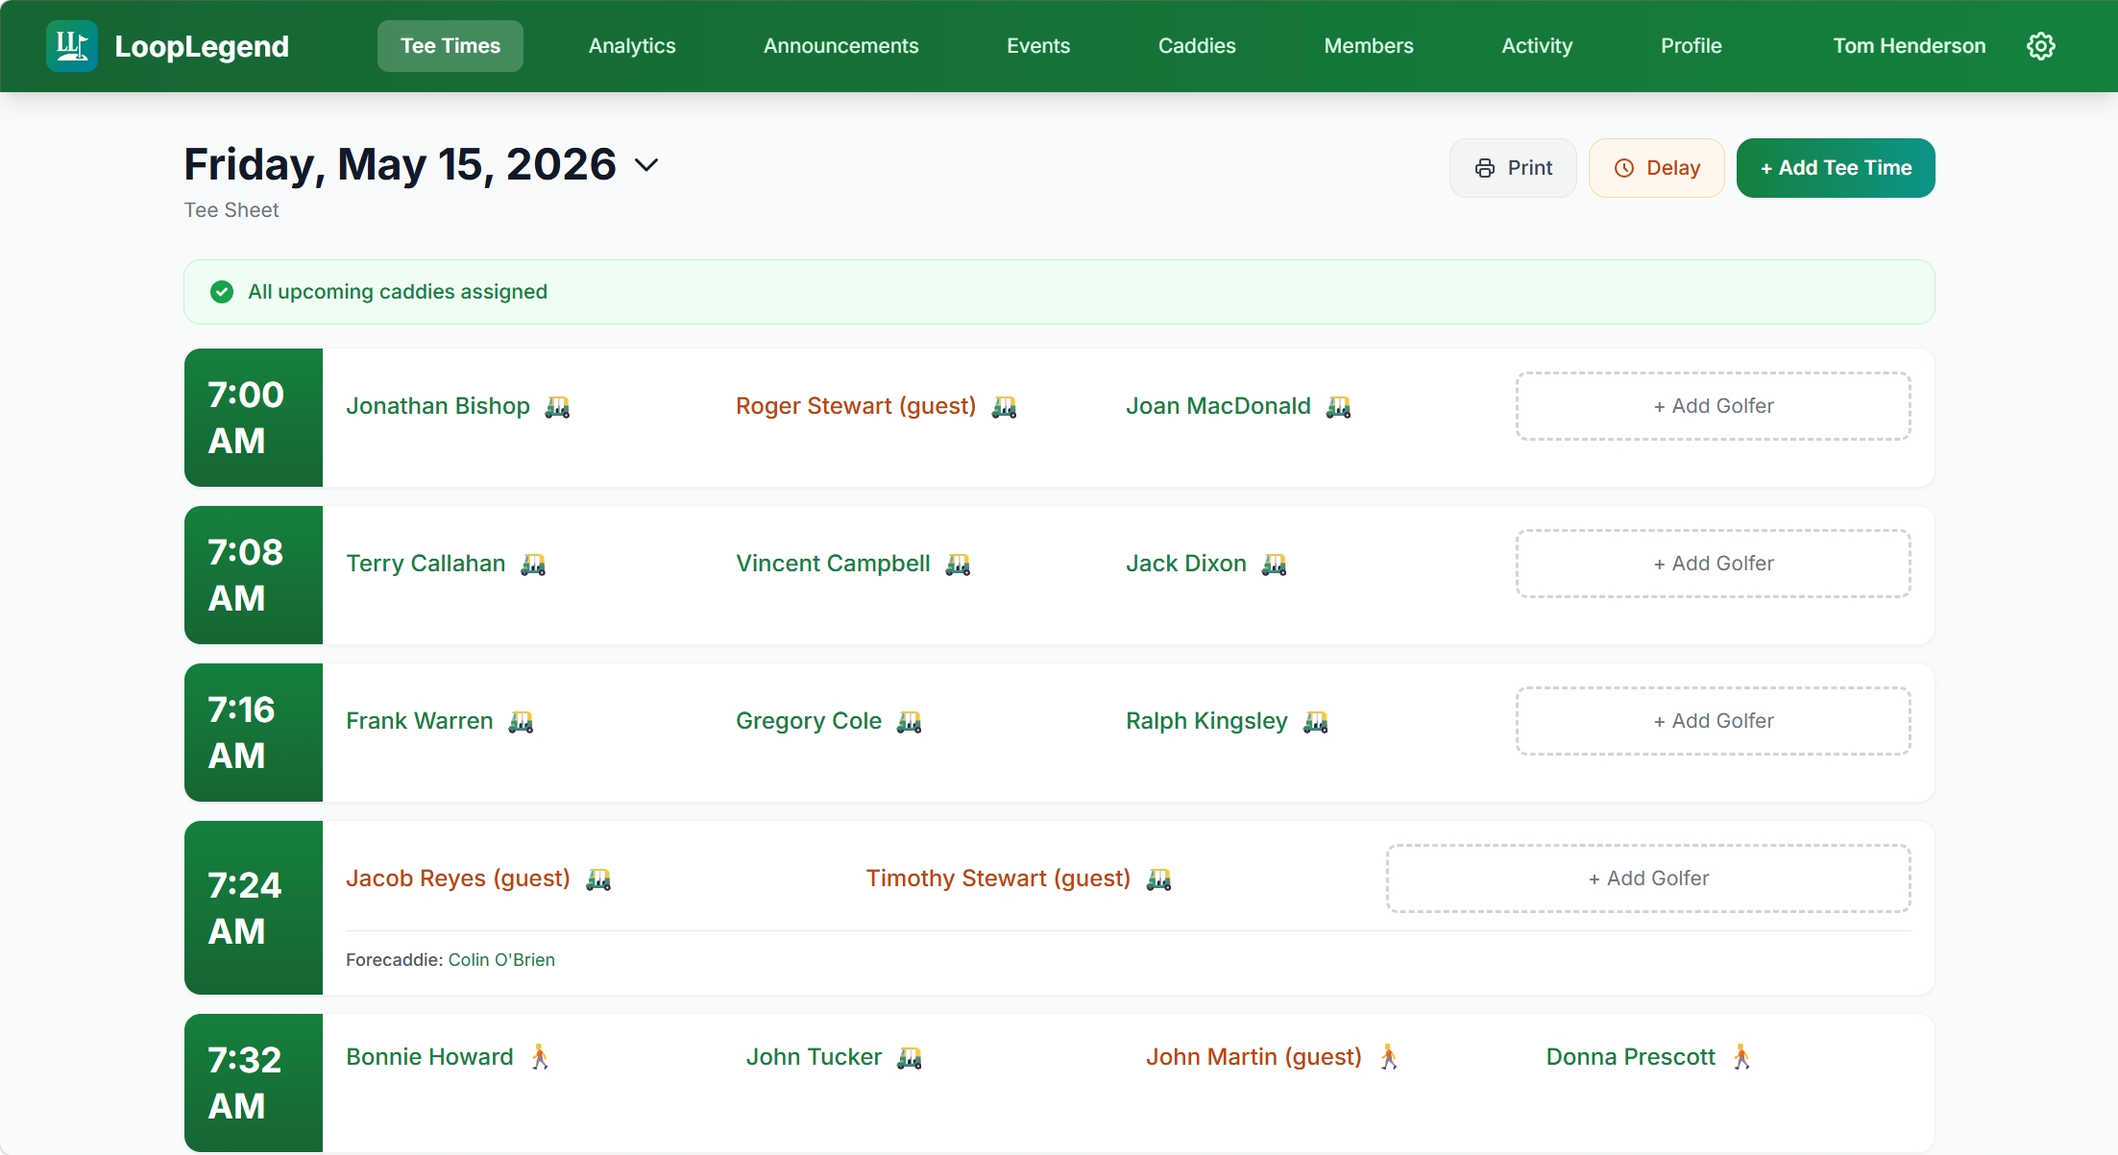
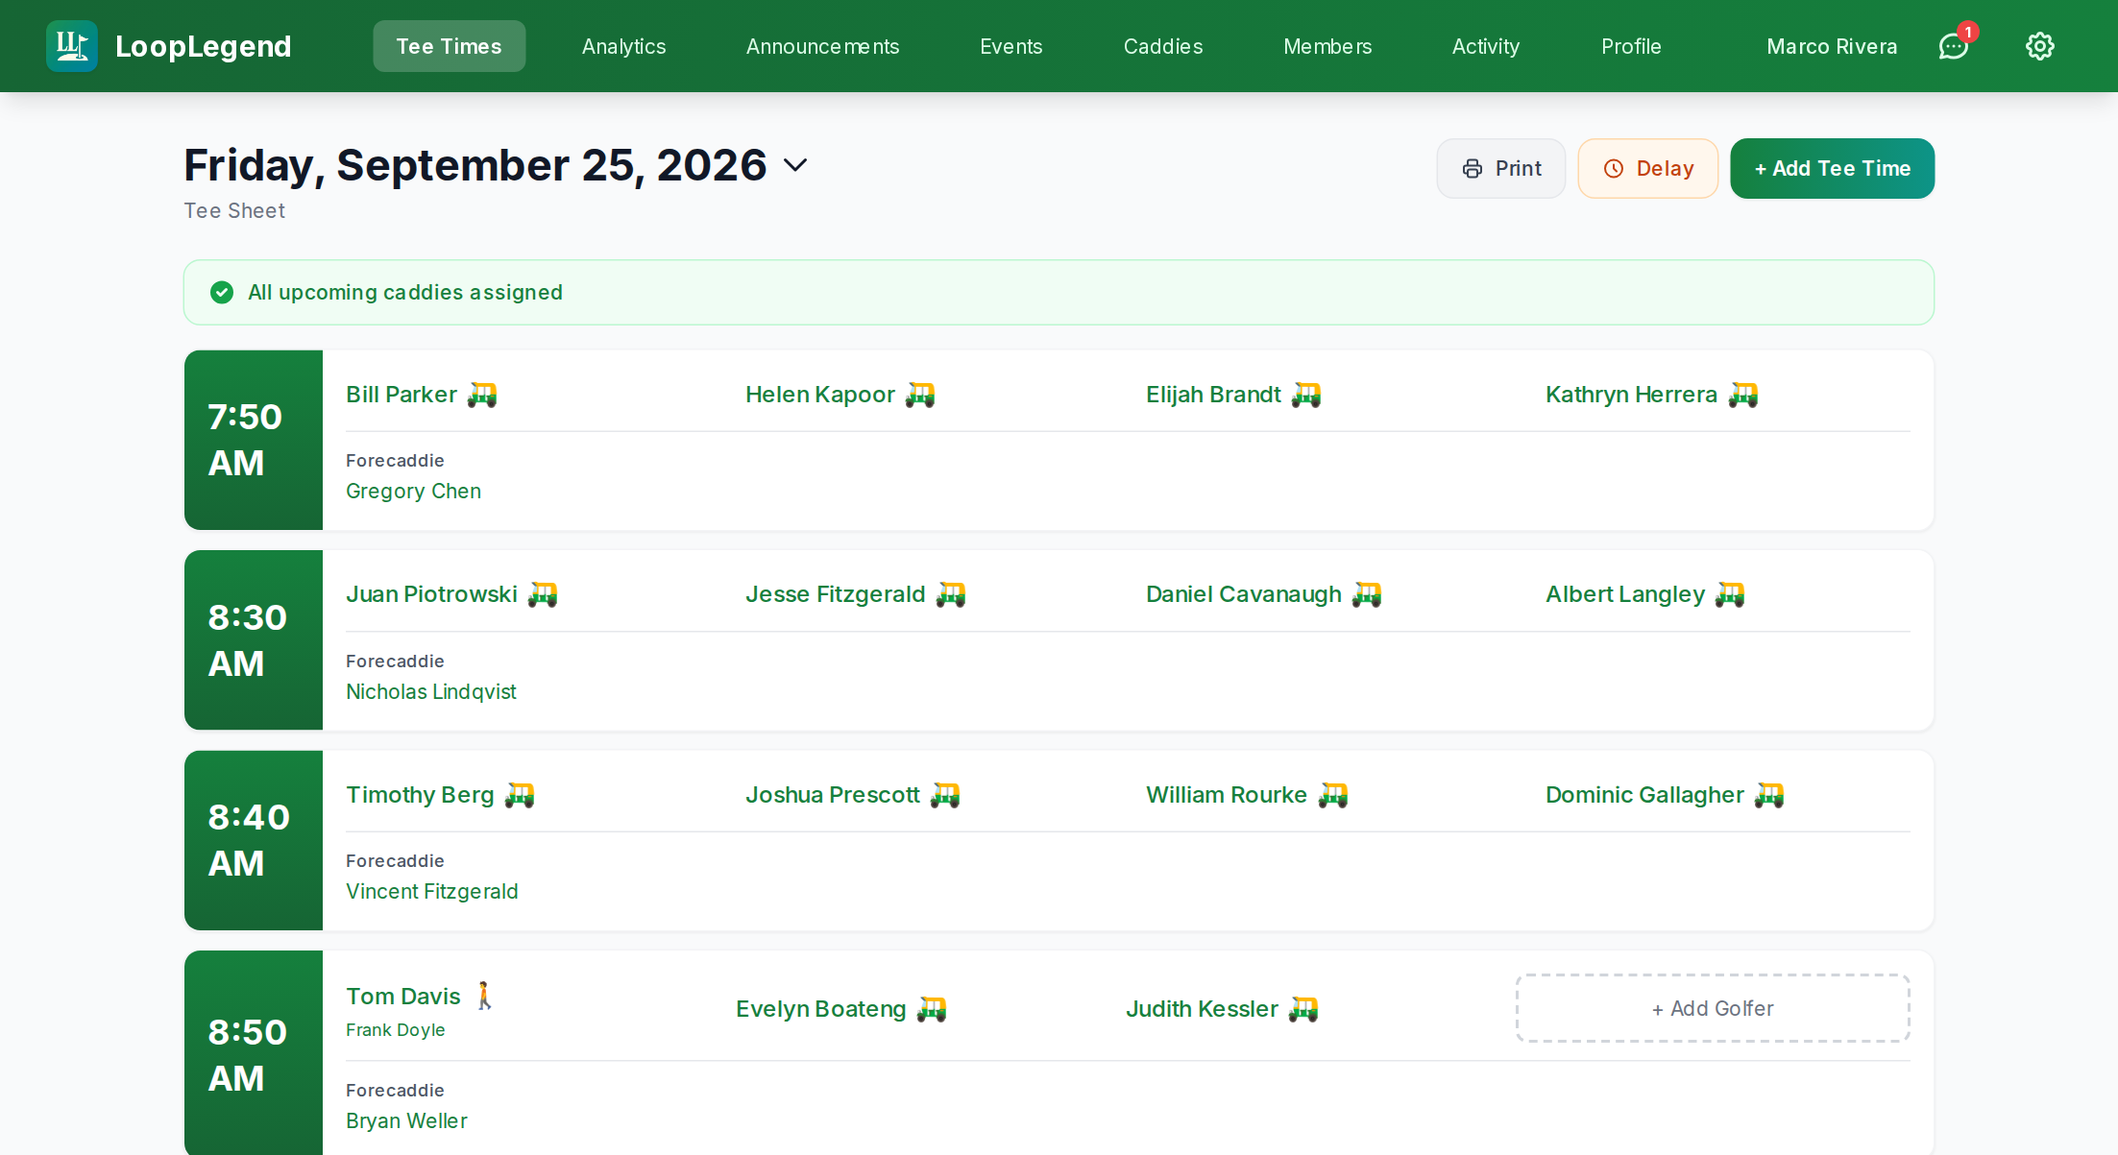
Landing page: phone screenshots + copy that doesn't give away the mechanics (#14)
* New app screenshots: desktop and phone views of the tee sheet, caddie and member screens

Desktop views replace the three existing screenshots at the same size
(2205x1203). The -phone versions (860x1864) are new, for showing the app
on a phone.

Claude-Session: https://claude.ai/code/session_01W9NqS571XoV3MwKsHPJ2Qt

* Landing page: phone screenshots, tighter copy, founding club line

- See It In Action: each tab now shows the desktop screenshot with the
  matching phone screenshot overlapping its bottom-right corner in a
  simple phone frame. Phone widths show the phone screenshot alone,
  centred. All screenshots lazy-load and carry intrinsic dimensions.
- Rewrote the copy so it describes what LoopLegend does and what clubs
  get, without describing how or when assignments happen.
- "Push & SMS notifications" -> "Push notifications" (there is no SMS).
- Added a "Founding club: Flossmoor Golf Club" line under the hero.

* Hero: members can request the caddie they want

A requested caddie may already be booked, so "members get the caddie
they want" promised more than the app can deliver. Non-breaking space
before "control." to keep the last line from orphaning.

* Hero: "Proudly serving Flossmoor Golf Club"

---------

diff --git a/index.html b/index.html
@@ -4,9 +4,9 @@
 <meta charset="UTF-8">
 <meta name="viewport" content="width=device-width, initial-scale=1.0">
 <title>LoopLegend — Automated Caddie Management for Golf Clubs</title>
-<meta name="description" content="Smart caddie scheduling, assignment, and communication for golf clubs. Draft the right caddie to the right loop, every time.">
+<meta name="description" content="Caddie scheduling, assignments, and communication for golf clubs. The right caddie on the right loop, every time.">
 <meta property="og:title" content="LoopLegend — Automated Caddie Management">
-<meta property="og:description" content="Smart caddie scheduling, assignment, and communication for golf clubs.">
+<meta property="og:description" content="Caddie scheduling, assignments, and communication for golf clubs.">
 <meta property="og:type" content="website">
 <meta property="og:url" content="https://getlooplegend.com">
 <meta property="og:image" content="https://getlooplegend.com/og-image.png">
@@ -170,6 +170,17 @@ nav.scrolled {
 @keyframes scrollLine {
   0%, 100% { opacity: 0.2; transform: scaleY(0.5); }
   50% { opacity: 0.6; transform: scaleY(1); }
+}
+
+/* ═══ FOUNDING CLUB ═══ */
+.founding-club {
+  background: var(--cream);
+  text-align: center;
+  padding: 1.5rem 1.5rem;
+  font-size: 0.8rem; font-weight: 600;
+  letter-spacing: 0.14em; text-transform: uppercase;
+  color: var(--text-light);
+  border-bottom: 1px solid var(--border);
 }
 
 /* ═══ SECTIONS ═══ */
@@ -609,14 +620,44 @@ footer a:hover { color: rgba(248,245,239,0.6); }
   overflow: hidden;
 }
 .screenshot-frame img {
-  width: 100%; border-radius: 8px;
+  width: 100%; height: auto; border-radius: 8px;
   display: block;
 }
 .screenshot-panel { display: none; }
 .screenshot-panel.active { display: block; }
 .screenshot-caption {
-  text-align: center; margin-top: 1.25rem;
+  text-align: center; margin-top: 3rem;
   font-size: 0.9rem; color: var(--text-light);
+}
+
+/* Desktop shot with the phone view overlapping its bottom-right corner */
+.shot-stage { position: relative; }
+.phone-frame {
+  position: absolute;
+  right: -0.75rem; bottom: -1.75rem;
+  width: 17%; min-width: 120px; max-width: 200px;
+  background: #15150f;
+  border-radius: 22px;
+  padding: 6px;
+  box-shadow: 0 16px 44px rgba(0,0,0,0.28);
+}
+.phone-frame img {
+  width: 100%; height: auto; display: block;
+  border-radius: 17px;
+}
+
+@media (max-width: 768px) {
+  /* Phone widths: phone view only, centred */
+  .shot-stage .screenshot-frame { display: none; }
+  .shot-stage .phone-frame {
+    position: static;
+    width: 100%; min-width: 0; max-width: 270px;
+    margin: 0 auto;
+    border-radius: 28px;
+    padding: 7px;
+  }
+  .phone-frame img { border-radius: 22px; }
+  .screenshot-caption { margin-top: 1.5rem; }
 }
 .reveal {
   opacity: 0; transform: translateY(25px);
@@ -650,13 +691,16 @@ footer a:hover { color: rgba(248,245,239,0.6); }
   <div class="hero-content">
     <div class="hero-eyebrow">Caddie Management, Automated</div>
     <h1>The right caddie on the right loop, <em>every time</em></h1>
-    <p class="hero-sub">An automated draft engine that matches caddies to loops based on merit, availability, and member preferences — built for golf clubs.</p>
+    <p class="hero-sub">Caddie assignments, handled for you. The best caddies are rewarded, members can request the caddie they want, and the caddie master stays in&nbsp;control.</p>
     <div class="hero-cta">
       <a href="#demo" class="cta-primary">Request a Demo</a>
       <a href="#problem" class="cta-secondary">Learn More</a>
     </div>
   </div>
 </section>
+
+<!-- FOUNDING CLUB -->
+<div class="founding-club">Proudly serving Flossmoor Golf Club</div>
 
 <!-- PROBLEM -->
 <section class="problem" id="problem">
@@ -669,18 +713,18 @@ footer a:hover { color: rgba(248,245,239,0.6); }
     <div class="problem-grid">
       <div class="problem-card reveal">
         <div class="problem-icon"><svg width="22" height="22" viewBox="0 0 24 24" fill="none" stroke="currentColor" stroke-width="1.5" stroke-linecap="round" stroke-linejoin="round" style="color:var(--gold);"><circle cx="12" cy="12" r="9"/><path d="M12 7v5l3 2"/></svg></div>
-        <h3>Hours Wasted on Scheduling</h3>
-        <p>The caddie master spends hours every week juggling availability, texts, and last-minute changes instead of focusing on the member experience.</p>
+        <h3>Scheduling Takes Over the Week</h3>
+        <p>The caddie master spends the week juggling availability, texts, and last-minute changes instead of focusing on the member experience.</p>
       </div>
       <div class="problem-card reveal">
         <div class="problem-icon"><svg width="22" height="22" viewBox="0 0 24 24" fill="none" stroke="currentColor" stroke-width="1.5" stroke-linecap="round" stroke-linejoin="round" style="color:var(--gold);"><path d="M21 11.5a8.38 8.38 0 0 1-.9 3.8 8.5 8.5 0 0 1-7.6 4.7 8.38 8.38 0 0 1-3.8-.9L3 21l1.9-5.7a8.38 8.38 0 0 1-.9-3.8 8.5 8.5 0 0 1 4.7-7.6 8.38 8.38 0 0 1 3.8-.9h.5a8.48 8.48 0 0 1 8 8v.5z"/></svg></div>
         <h3>Communication Chaos</h3>
-        <p>A caddie cancels two hours before a tee time. Now someone's scrambling to find a replacement through a chain of phone calls and texts.</p>
+        <p>A caddie cancels right before a tee time. Now someone's scrambling to find a replacement through a chain of phone calls and texts.</p>
       </div>
       <div class="problem-card reveal">
         <div class="problem-icon"><svg width="22" height="22" viewBox="0 0 24 24" fill="none" stroke="currentColor" stroke-width="1.5" stroke-linecap="round" stroke-linejoin="round" style="color:var(--gold);"><path d="M12 3v18M5 8h14M5 8l-2 6a4 4 0 0 0 8 0L9 8M19 8l-2 6a4 4 0 0 0 8 0l-2-6"/></svg></div>
         <h3>Inconsistent Assignments</h3>
-        <p>Without a system, a first-year caddie can end up on the same loop as a veteran who's been there for years. Experience and effort don't always get rewarded.</p>
+        <p>Without a system, the caddies who show up and do the work don't always get the loops they've earned. Good caddies notice, and some of them stop coming back.</p>
       </div>
     </div>
   </div>
@@ -692,42 +736,42 @@ footer a:hover { color: rgba(248,245,239,0.6); }
     <div class="reveal">
       <div class="section-label">How It Works</div>
       <h2 class="section-heading">From tee sheet to assignment, automatically</h2>
-      <p class="section-sub">LoopLegend connects to your tee sheet and handles the rest. The caddie master stays in control — the system does the heavy lifting.</p>
+      <p class="section-sub">LoopLegend works with the tee sheet software your club already uses and handles the rest. The caddie master stays in control.</p>
     </div>
     <div class="steps">
       <div class="step reveal">
         <div class="step-num">01</div>
         <div class="step-content">
-          <h3>Tee Sheet Syncs Automatically</h3>
-          <p>LoopLegend connects to your existing tee sheet software. Tee times, member names, walking or riding, guests, tournaments — it all flows in automatically. Nothing to enter twice.</p>
+          <h3>Your Tee Sheet Is Already There</h3>
+          <p>LoopLegend works with the tee sheet software your club already uses. Tee times, member names, walking or riding, guests, tournaments: it's all there. Nothing to enter twice.</p>
         </div>
       </div>
       <div class="step reveal">
         <div class="step-num">02</div>
         <div class="step-content">
           <h3>Caddies Set Their Own Availability</h3>
-          <p>Caddies log in and set their exact available hours for each day — not just AM or PM. Set recurring weekly schedules or adjust specific dates. You always know exactly who's ready to work and when.</p>
+          <p>Caddies log in and set the hours they're actually available, not just AM or PM. They can set a recurring weekly schedule or change a single date. You always know who's ready to work.</p>
         </div>
       </div>
       <div class="step reveal">
         <div class="step-num">03</div>
         <div class="step-content">
-          <h3>The Draft Engine Assigns Caddies</h3>
-          <p>Every morning, LoopLegend drafts caddies to loops five days in advance — best caddies get the best loops, based on merit, ratings, availability, and member preferences. Caddies know their schedule for the week, not just the night before.</p>
+          <h3>The Right Caddie Gets the Loop</h3>
+          <p>LoopLegend assigns caddies to loops for you. The best caddies are rewarded with the best loops, and members get the caddies they ask for. Caddies know their schedule well ahead of time, not the night before.</p>
         </div>
       </div>
       <div class="step reveal">
         <div class="step-num">04</div>
         <div class="step-content">
-          <h3>Gaps Fill Themselves</h3>
-          <p>Caddie declines? Assignment expires? Someone cancels last minute? The system instantly finds a replacement. Within 6 hours of a tee time, it sends an emergency broadcast to every available caddie. First to accept gets it.</p>
+          <h3>Open Loops Get Filled</h3>
+          <p>Plans change. When a loop opens up, LoopLegend fills it with another available caddie. No phone tree, no scrambling, no loop going out without a caddie.</p>
         </div>
       </div>
       <div class="step reveal">
         <div class="step-num">05</div>
         <div class="step-content">
           <h3>Everyone Gets Notified</h3>
-          <p>Caddies get a notification with their assignment and a deadline to accept. Members get a confirmation when their caddie is locked in. The caddie master sees everything on one dashboard.</p>
+          <p>Caddies are notified of their loops and confirm them from their phone. Members are told who they have. The caddie master sees all of it on one dashboard and can change anything.</p>
         </div>
       </div>
     </div>
@@ -748,20 +792,35 @@ footer a:hover { color: rgba(248,245,239,0.6); }
       <button class="screenshot-tab" onclick="showTab('member', this)">Member</button>
     </div>
     <div class="screenshot-panel active" id="panel-admin">
-      <div class="screenshot-frame reveal">
-        <img src="assets/screenshot-admin.png" alt="LoopLegend admin tee sheet view">
+      <div class="shot-stage reveal">
+        <div class="screenshot-frame">
+          <img src="assets/screenshot-admin.png" alt="LoopLegend admin tee sheet view" width="2205" height="1203" loading="lazy" decoding="async">
+        </div>
+        <div class="phone-frame">
+          <img src="assets/screenshot-admin-phone.png" alt="LoopLegend admin tee sheet view on a phone" width="860" height="1864" loading="lazy" decoding="async">
+        </div>
       </div>
       <p class="screenshot-caption">The caddie master sees the full tee sheet with every assignment, guest tag, and caddie at a glance.</p>
     </div>
     <div class="screenshot-panel" id="panel-caddie">
-      <div class="screenshot-frame reveal">
-        <img src="assets/screenshot-caddie.png" alt="LoopLegend caddie dashboard">
+      <div class="shot-stage reveal">
+        <div class="screenshot-frame">
+          <img src="assets/screenshot-caddie.png" alt="LoopLegend caddie dashboard" width="2205" height="1203" loading="lazy" decoding="async">
+        </div>
+        <div class="phone-frame">
+          <img src="assets/screenshot-caddie-phone.png" alt="LoopLegend caddie dashboard on a phone" width="860" height="1864" loading="lazy" decoding="async">
+        </div>
       </div>
       <p class="screenshot-caption">Caddies see their pending and confirmed loops with full group details. Accept or decline with one tap.</p>
     </div>
     <div class="screenshot-panel" id="panel-member">
-      <div class="screenshot-frame reveal">
-        <img src="assets/screenshot-member.png" alt="LoopLegend member view">
+      <div class="shot-stage reveal">
+        <div class="screenshot-frame">
+          <img src="assets/screenshot-member.png" alt="LoopLegend member view" width="2205" height="1203" loading="lazy" decoding="async">
+        </div>
+        <div class="phone-frame">
+          <img src="assets/screenshot-member-phone.png" alt="LoopLegend member view on a phone" width="860" height="1864" loading="lazy" decoding="async">
+        </div>
       </div>
       <p class="screenshot-caption">Members see their upcoming tee times, assigned caddie, and can request or replace caddies directly.</p>
     </div>
@@ -779,23 +838,23 @@ footer a:hover { color: rgba(248,245,239,0.6); }
     <div class="feature-grid">
       <div class="feature-card reveal">
         <div class="feature-icon"><svg width="24" height="24" viewBox="0 0 24 24" fill="none" stroke="currentColor" stroke-width="1.5" stroke-linecap="round" stroke-linejoin="round" style="color:var(--gold);"><path d="M6 9V5h12v4a6 6 0 0 1-12 0z"/><path d="M6 5H3v3a3 3 0 0 0 3 3M18 5h3v3a3 3 0 0 1-3 3M9 19h6M12 15v4"/></svg></div>
-        <h3>Merit-Based Draft Engine</h3>
-        <p>Every morning, the system drafts caddies to loops based on ratings, acceptance rate, experience, and commitment. The caddies who earn it get the best loops.</p>
+        <h3>The Right Caddie on Every Loop</h3>
+        <p>LoopLegend assigns caddies to loops for you, and the best caddies are rewarded with the best loops. Nobody has to argue about who goes out with whom.</p>
       </div>
       <div class="feature-card reveal">
         <div class="feature-icon"><svg width="24" height="24" viewBox="0 0 24 24" fill="none" stroke="currentColor" stroke-width="1.5" stroke-linecap="round" stroke-linejoin="round" style="color:var(--gold);"><rect x="3" y="5" width="18" height="16" rx="2"/><path d="M3 9h18M8 3v4M16 3v4"/></svg></div>
         <h3>Self-Service Availability</h3>
-        <p>Caddies manage their own schedules from their phone. Set exact available hours — not just AM or PM — so the system knows precisely when each caddie can work. Nobody has to call around or send group texts.</p>
+        <p>Caddies manage their own schedules from their phone, down to the hours they're actually available rather than just AM or PM. Nobody has to call around or send group texts.</p>
       </div>
       <div class="feature-card reveal">
         <div class="feature-icon"><svg width="24" height="24" viewBox="0 0 24 24" fill="none" stroke="currentColor" stroke-width="1.5" stroke-linecap="round" stroke-linejoin="round" style="color:var(--gold);"><path d="M18 8a6 6 0 1 0-12 0c0 7-3 9-3 9h18s-3-2-3-9M13.7 21a2 2 0 0 1-3.4 0"/></svg></div>
-        <h3>Emergency Backfill</h3>
-        <p>When someone cancels within 6 hours, every available caddie gets an instant broadcast. First to accept gets the loop.</p>
+        <h3>Open Loops Get Filled</h3>
+        <p>When plans change and a loop comes open, available caddies hear about it and the loop gets covered. No loop goes out without a caddie.</p>
       </div>
       <div class="feature-card reveal">
         <div class="feature-icon"><svg width="24" height="24" viewBox="0 0 24 24" fill="none" stroke="currentColor" stroke-width="1.5" stroke-linecap="round" stroke-linejoin="round" style="color:var(--gold);"><path d="M12 2l3.1 6.3 6.9 1-5 4.9 1.2 6.8L12 17.8 5.8 21l1.2-6.8-5-4.9 6.9-1z"/></svg></div>
         <h3>Member Caddie Requests</h3>
-        <p>Members can request their favorite caddies directly through the system. They can also rate their experience after a round, which feeds into future assignments. The caddies members love keep coming back to them.</p>
+        <p>Members can request their favorite caddies directly through the system, and rate their round afterward. The caddies members love keep coming back to them.</p>
       </div>
       <div class="feature-card reveal">
         <div class="feature-icon"><svg width="24" height="24" viewBox="0 0 24 24" fill="none" stroke="currentColor" stroke-width="1.5" stroke-linecap="round" stroke-linejoin="round" style="color:var(--gold);"><rect x="3" y="3" width="18" height="18" rx="2"/><path d="M3 9h18M9 21V9"/></svg></div>
@@ -804,8 +863,8 @@ footer a:hover { color: rgba(248,245,239,0.6); }
       </div>
       <div class="feature-card reveal">
         <div class="feature-icon"><svg width="24" height="24" viewBox="0 0 24 24" fill="none" stroke="currentColor" stroke-width="1.5" stroke-linecap="round" stroke-linejoin="round" style="color:var(--gold);"><path d="M10 13a5 5 0 0 0 7 0l3-3a5 5 0 0 0-7-7l-1 1"/><path d="M14 11a5 5 0 0 0-7 0l-3 3a5 5 0 0 0 7 7l1-1"/></svg></div>
-        <h3>Tee Sheet Integration</h3>
-        <p>Connects directly to your existing tee sheet software. Tee times, members, guests, walking or riding — it all syncs automatically. You don't have to enter anything twice.</p>
+        <h3>Works With Your Tee Sheet</h3>
+        <p>LoopLegend works with the tee sheet software your club already uses. Tee times, members, guests, walking or riding: it's all there, and you don't enter anything twice.</p>
       </div>
     </div>
 
@@ -815,7 +874,7 @@ footer a:hover { color: rgba(248,245,239,0.6); }
         <p>Smaller features that round out the program.</p>
       </div>
       <ul class="feature-more-list">
-        <li><svg class="check" viewBox="0 0 24 24" fill="none" stroke="currentColor" stroke-width="2.2" stroke-linecap="round" stroke-linejoin="round"><path d="M5 12l5 5L20 7"/></svg> Push &amp; SMS notifications</li>
+        <li><svg class="check" viewBox="0 0 24 24" fill="none" stroke="currentColor" stroke-width="2.2" stroke-linecap="round" stroke-linejoin="round"><path d="M5 12l5 5L20 7"/></svg> Push notifications</li>
         <li><svg class="check" viewBox="0 0 24 24" fill="none" stroke="currentColor" stroke-width="2.2" stroke-linecap="round" stroke-linejoin="round"><path d="M5 12l5 5L20 7"/></svg> Tee time delay alerts</li>
         <li><svg class="check" viewBox="0 0 24 24" fill="none" stroke="currentColor" stroke-width="2.2" stroke-linecap="round" stroke-linejoin="round"><path d="M5 12l5 5L20 7"/></svg> Performance tracking</li>
         <li><svg class="check" viewBox="0 0 24 24" fill="none" stroke="currentColor" stroke-width="2.2" stroke-linecap="round" stroke-linejoin="round"><path d="M5 12l5 5L20 7"/></svg> Caddie leaderboard</li>
